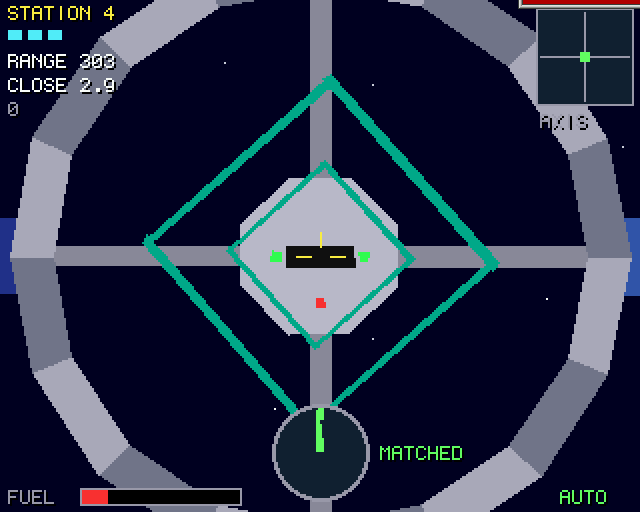
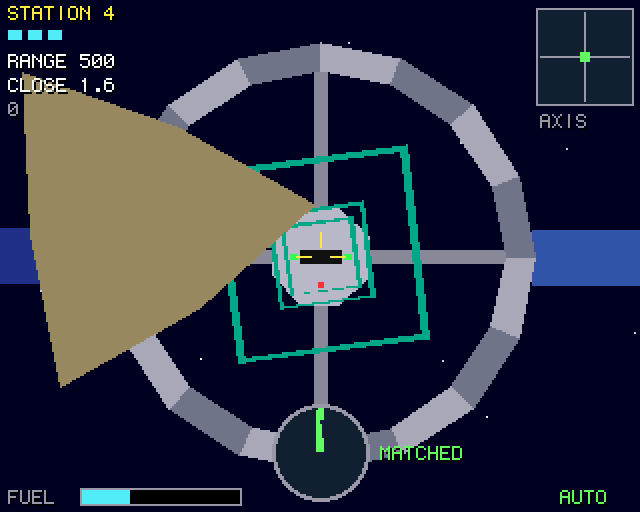
examples: Orbit Docking guest screenshots from m1b (the approach with the whole station, the help)

diff --git a/examples/orbit_docking_bb/tools/guest_shots.py b/examples/orbit_docking_bb/tools/guest_shots.py
@@ -14,6 +14,7 @@ import guest_game as gg
 g = gg.g
 
 SHOTS = [  # name, arguments, seconds
+    ("far", "--autoplay --level 4", 7),
     ("approach", "--autoplay --level 4", 14),
     ("close", "--autoplay --level 1", 50),
     ("title", "", 16),

diff --git a/examples/orbit_docking_bb/README.md b/examples/orbit_docking_bb/README.md
@@ -9,7 +9,7 @@ that axis, turning with it. Fly your craft in along the axis, roll to match the 
 as fast as it turns, and close in gently. There is no friction in space: a push lasts until
 you push back, and fuel is limited.
 
-![The approach to station 4, on the guest](screenshots/os4-approach.png)
+![The approach to station 4 (range 500, debris drifting across), on the guest](screenshots/os4-approach.png)
 
 | Key | |
 |---|---|
@@ -37,7 +37,9 @@ On the title, Up / Down choose the station to start from; Space or Return starts
 - Scoring: 1000 a dock, + 500 x the station, + 2 for each unit of fuel left, less a little
   for the time taken.
 
-![High scores](screenshots/os4-scores.png)
+| | |
+|---|---|
+| ![How to play](screenshots/os4-help.png) | ![High scores](screenshots/os4-scores.png) |
 
 ## What is the same, what changed
 
@@ -97,8 +99,8 @@ Changed:
 - **Guest smoke run**: `BB_GUEST=m1b examples/common/tools/guest_game.py
   examples/orbit_docking_bb/OrbitDocking.bbp vm --smoke 400 --data RAM:bbg/examples/orbit_docking_bb`
   (passed: AHI, the thrusters' effect, no Grim Reaper).
-- **Screenshots**: `tools/guest_shots.py OUTDIR` (one lock ticket each); the ones here are
-  from the local guest.
+- **Screenshots**: `tools/guest_shots.py OUTDIR [vm] [names]` (one lock ticket each); the
+  approach and help are from m1b, the scores from the local guest.
 
 ## Performance
 
